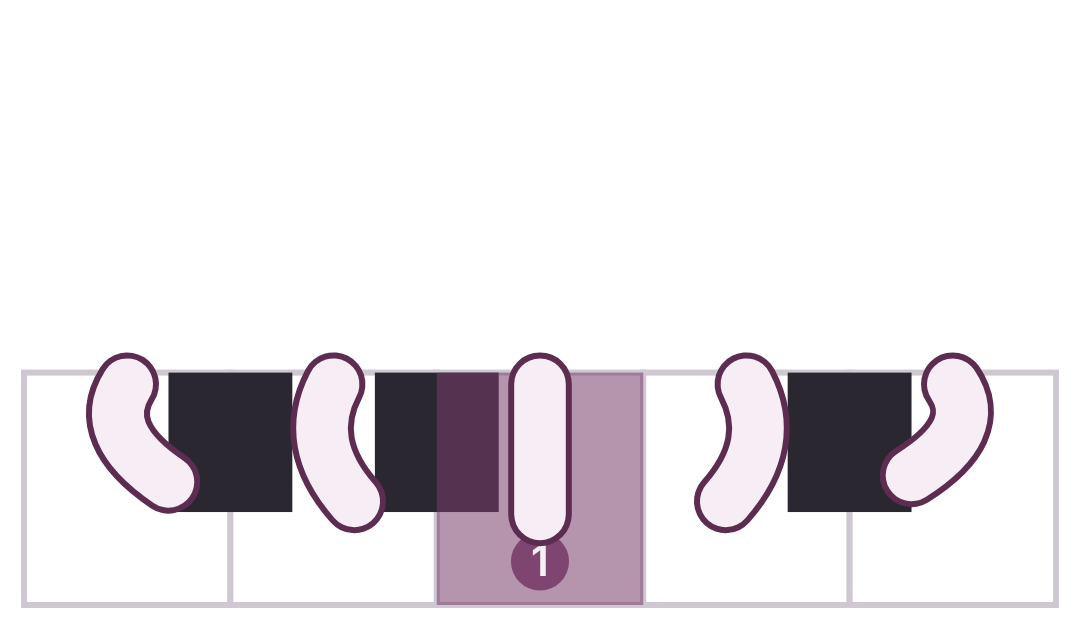
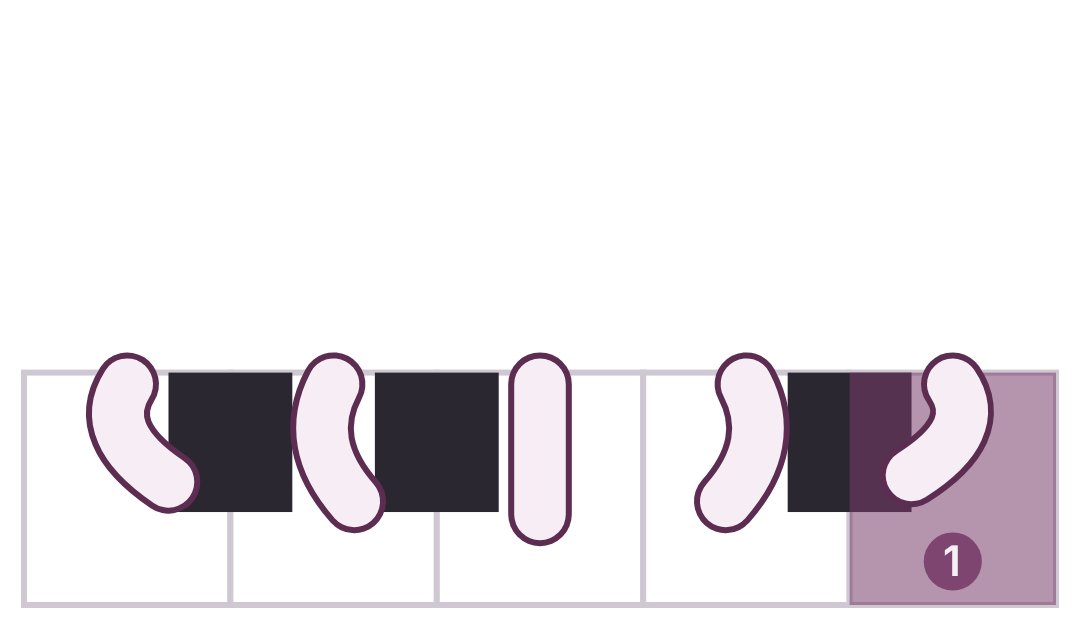
fix(lesson): left-hand C position card lights the white keys
The scene lit 48..52 chromatically (C, C sharp, D, D sharp, E) instead of
C D E F G; it now uses an explicit key list like the left-hand G scene.
Screenshots re-recorded.

Claude-Session: https://claude.ai/code/session_014xjm8Evz6vbRgvA2u4Udeq

Changed region(s): [[0.3972, 0.5739, 0.6111, 0.9666], [0.7639, 0.5739, 0.9778, 0.9666]]

diff --git a/engine/src/commonMain/kotlin/pianoanchor/engine/content/CardScenes.kt b/engine/src/commonMain/kotlin/pianoanchor/engine/content/CardScenes.kt
@@ -142,6 +142,9 @@ private const val RHODY_GAP_MS = 40
 private val G_POSITION_NOTES = listOf(67, 69, 71, 72, 74)
 private val LEFT_G_POSITION_NOTES = listOf(43, 45, 47, 48, 50)
 
+/** The white keys of the left-hand C position, C3 up to G3. */
+private val LEFT_C_POSITION_NOTES = listOf(LOW_C, 50, E_ABOVE_LOW_C, F_ABOVE_LOW_C, G_ABOVE_LOW_C)
+
 /** The notes of the key of G the scene lights after the F sharp, from F sharp up to D. */
 private val G_KEY_NOTES = listOf(F_SHARP_4) + G_POSITION_NOTES
 
@@ -347,7 +350,7 @@ internal object CardScenes {
         CardScene(
             SceneStage(LOW_C..G_ABOVE_LOW_C, hand = SceneHand.LEFT),
             listOf(cue(0, CARD_SCENE_LOOP_MS, SceneAction.HandPose(curved = true, overNote = G_ABOVE_LOW_C))) +
-                (LOW_C..52).mapIndexed { i, note ->
+                LEFT_C_POSITION_NOTES.mapIndexed { i, note ->
                     cue(FIRST_FINGER_MS_LEFT + i * RUN_MS, RUN_MS, LightKey(note, finger = 5 - i))
                 },
             "The left hand sits curved on the low C and its fingers 5 down to 1 light up the keys in turn.",

diff --git a/engine/src/commonTest/kotlin/pianoanchor/engine/content/CardScenesTest.kt b/engine/src/commonTest/kotlin/pianoanchor/engine/content/CardScenesTest.kt
@@ -118,6 +118,12 @@ class CardScenesTest {
     }
 
     @Test
+    fun `the left-hand C position scene lights the white keys C D E F G with fingers 5 to 1`() {
+        assertEquals(listOf(48, 50, 52, 53, 55), lights("lh-c-position").map { it.note })
+        assertEquals(listOf(5, 4, 3, 2, 1), lights("lh-c-position").map { it.finger })
+    }
+
+    @Test
     fun `key of G lights F then F sharp strong then the key's notes`() {
         val lights = lights("key-of-g")
         assertEquals(listOf(65, 66), lights.take(2).map { it.note })
